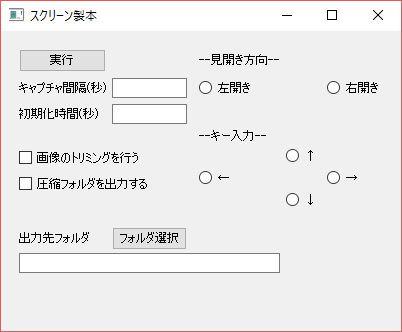
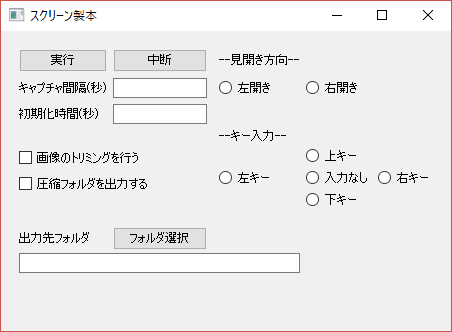
Update readme

diff --git a/readme.md b/readme.md
@@ -1,6 +1,6 @@
 スクリーン製本
 ====
-スクリーンキャプチャを自動で行って、本のように製本するツールです。
+スクリーンキャプチャを自動で行って本のように製本するツールです。
 
 ## Description
 キーボード入力とスクリーンキャプチャを指定した間隔で行います。画面に変化がなくなると自動的にスクリーンキャプチャを終了します。
@@ -13,7 +13,7 @@
 - Python 3.0以上
 - PIL(Python Imaging Library)
 
-GUIを使う場合は以下のライブラリも必要になります。
+GUIを使う場合は以下のライブラリが追加で必要になります。
 - PyQt4
 
 ## Usage
@@ -24,6 +24,8 @@ gui.pyかexec.batを実行すると次の画面が表示されます。
 
 - 実行
   - プログラムを実行します。
+- 中断
+  - プログラムの実行を中断します。
 - キャプチャ間隔
   - スクリーンショットをキャプチャする間隔を秒数で指定します。
 - 初期化時間
@@ -31,7 +33,7 @@ gui.pyかexec.batを実行すると次の画面が表示されます。
 - 見開き方向
   - トリミングしたときに左右どちらのページを前にするかを指定します。右が前のページなら右開きを指定します。
 - キー入力
-  - 実行するキーボード入力を指定します。左矢印を入力する場合は←を指定します。
+  - 実行するキーボード入力を指定します。
 - 圧縮フォルダを出力する
   - 最終的な出力を圧縮して出力するかを指定します。
 - 画像のトリミングを行う
@@ -39,7 +41,9 @@ gui.pyかexec.batを実行すると次の画面が表示されます。
 - 出力先フォルダ
   - 出力先のフォルダを指定します。
 
-またbind_screen.pyを実行することでコマンドで実行することもできます。以下は引数の指定方法です。
+またbind_screen.pyを実行することでコマンドで実行することもできます。
+
+以下は引数の指定方法です。
 
 ```
 bind_screen.py [-h] [--zip] [--trim]
@@ -60,6 +64,19 @@ optional arguments:
   --zip              最終的な出力ファイルを圧縮して出力する
   --trim             画像の分割とトリミングを行う
 ```
+
+処理が終了すると選択したディレクトリにフォルダが生成されます。
+- spread_image
+  - 未加工の画像が保存されたフォルダ
+- split_image
+  - 画面中央で縦に分割した画像が保存されたフォルダ(オプション指定時のみ)
+- trim_image
+  - split_imageの画像から余白を取り除いた画像が保存されたフォルダ(オプション指定時のみ)
+- complete.zip
+  - 「画像のトリミングを行う」をつけた場合はtrim\_imageの圧縮フォルダが出力され、つけなかった場合はspread\_imageの圧縮フォルダとなる(オプション指定時のみ)
+
+### Note
+出力フォルダと同じ名前のフォルダがディレクトリ内に存在する場合、プログラムを実行することができません。
 
 ## Licence
 MIT License
